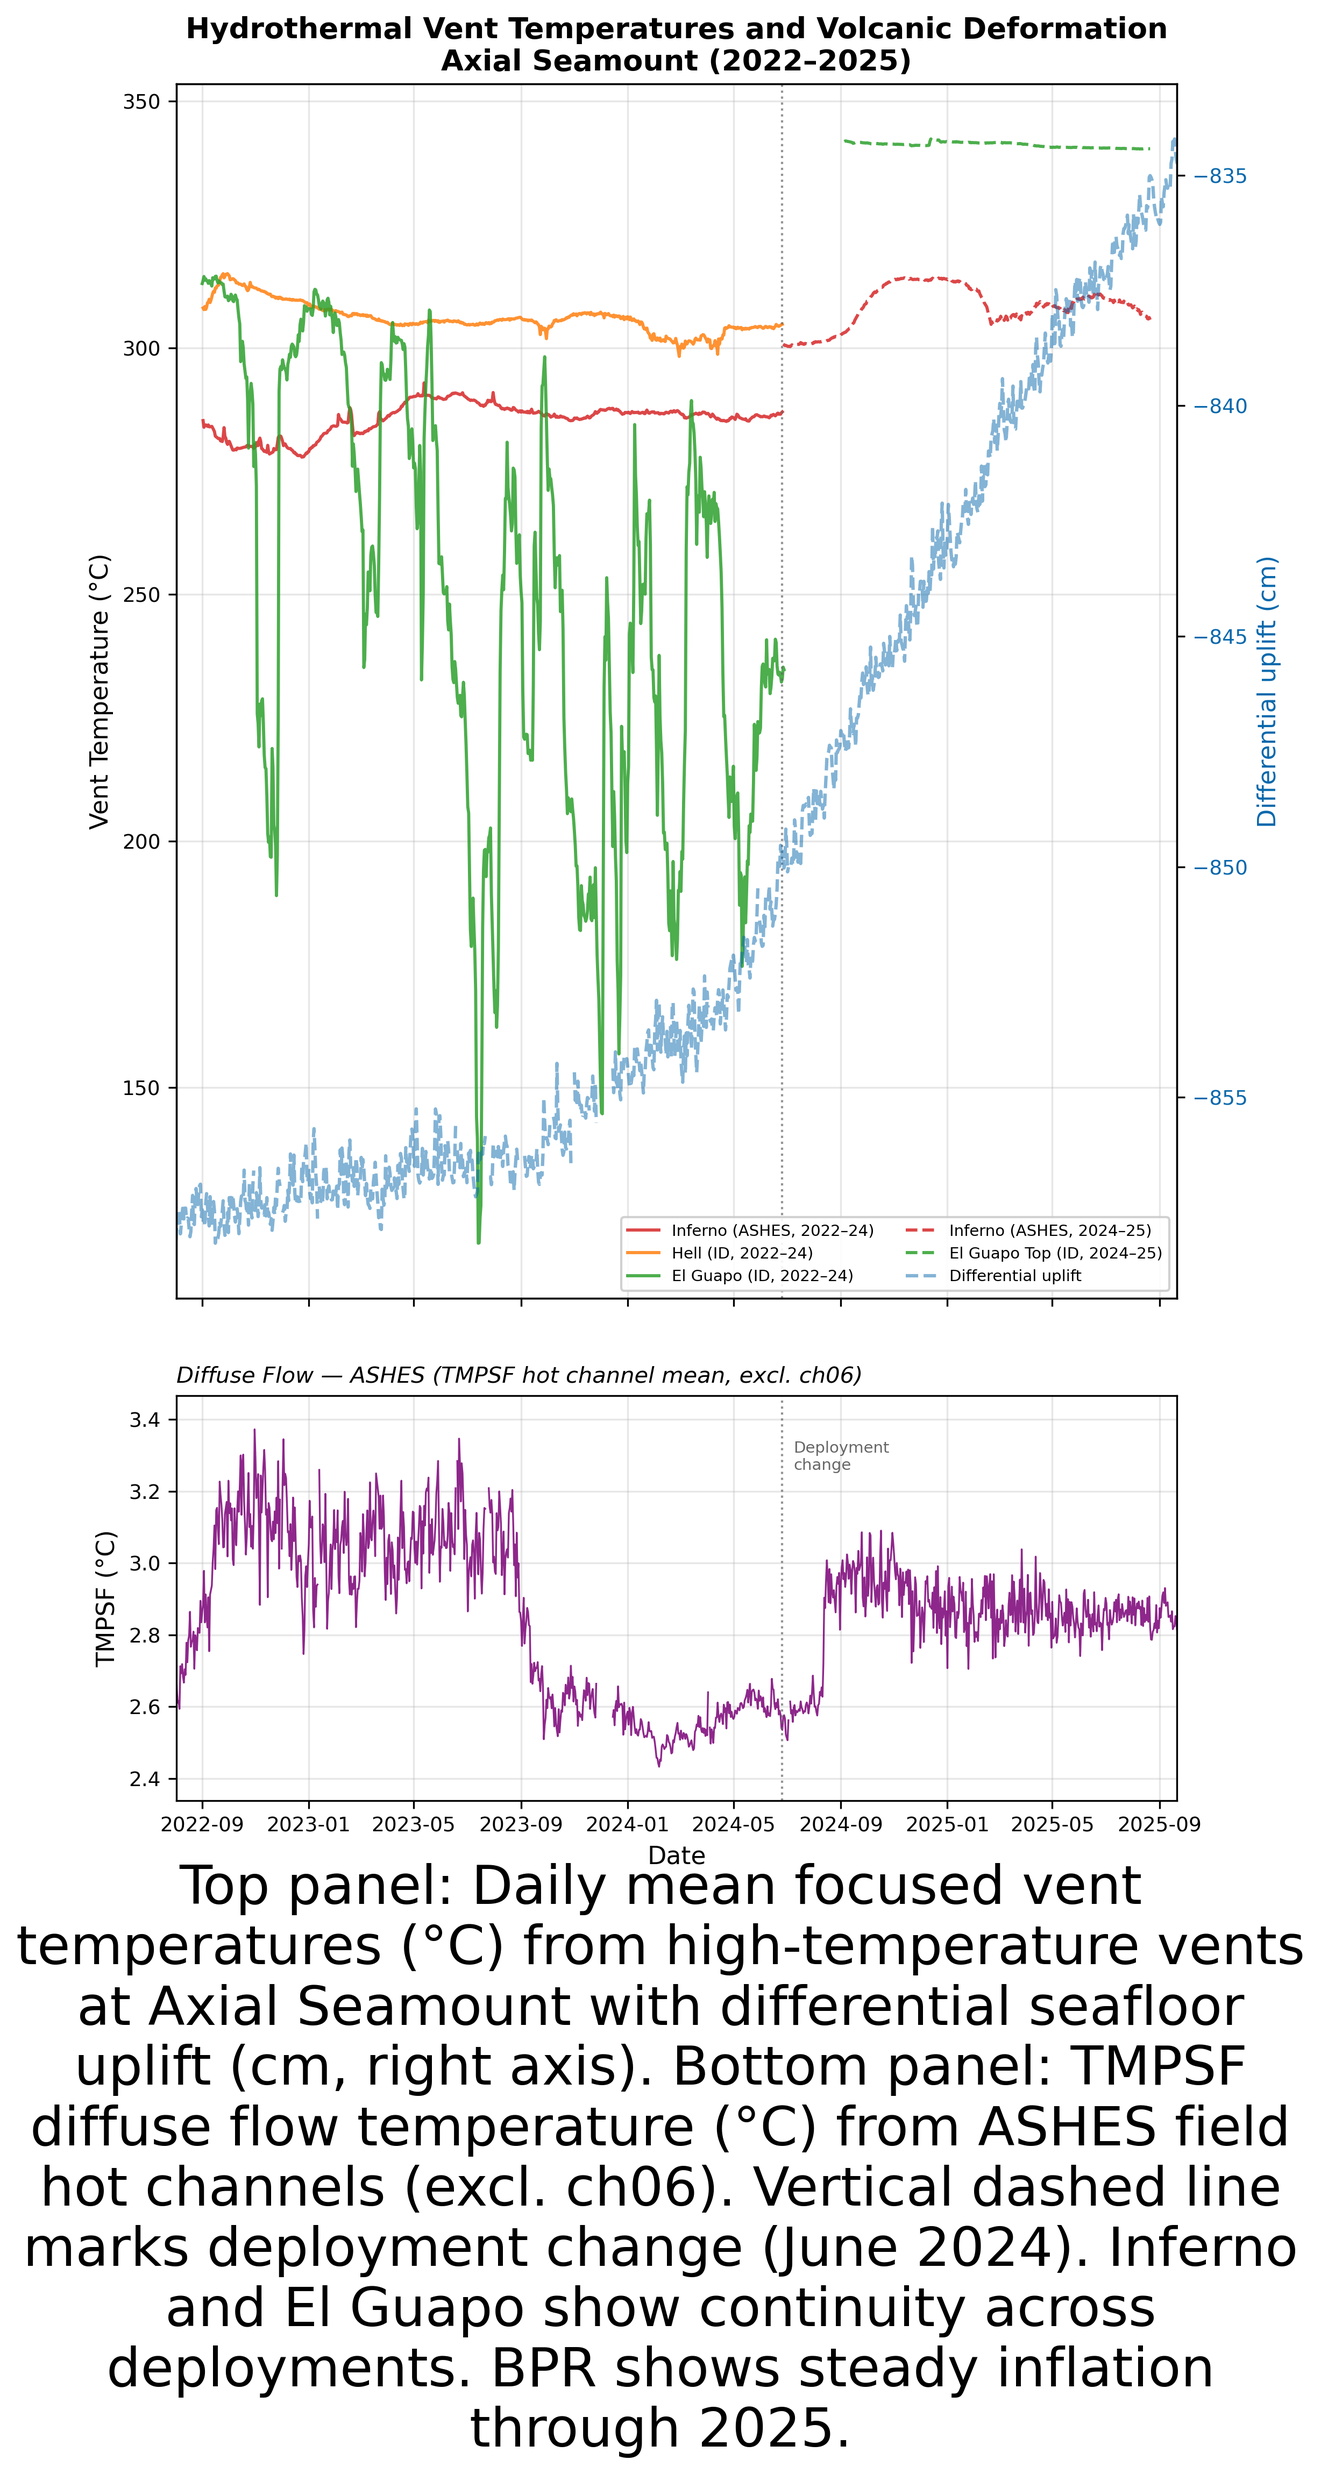
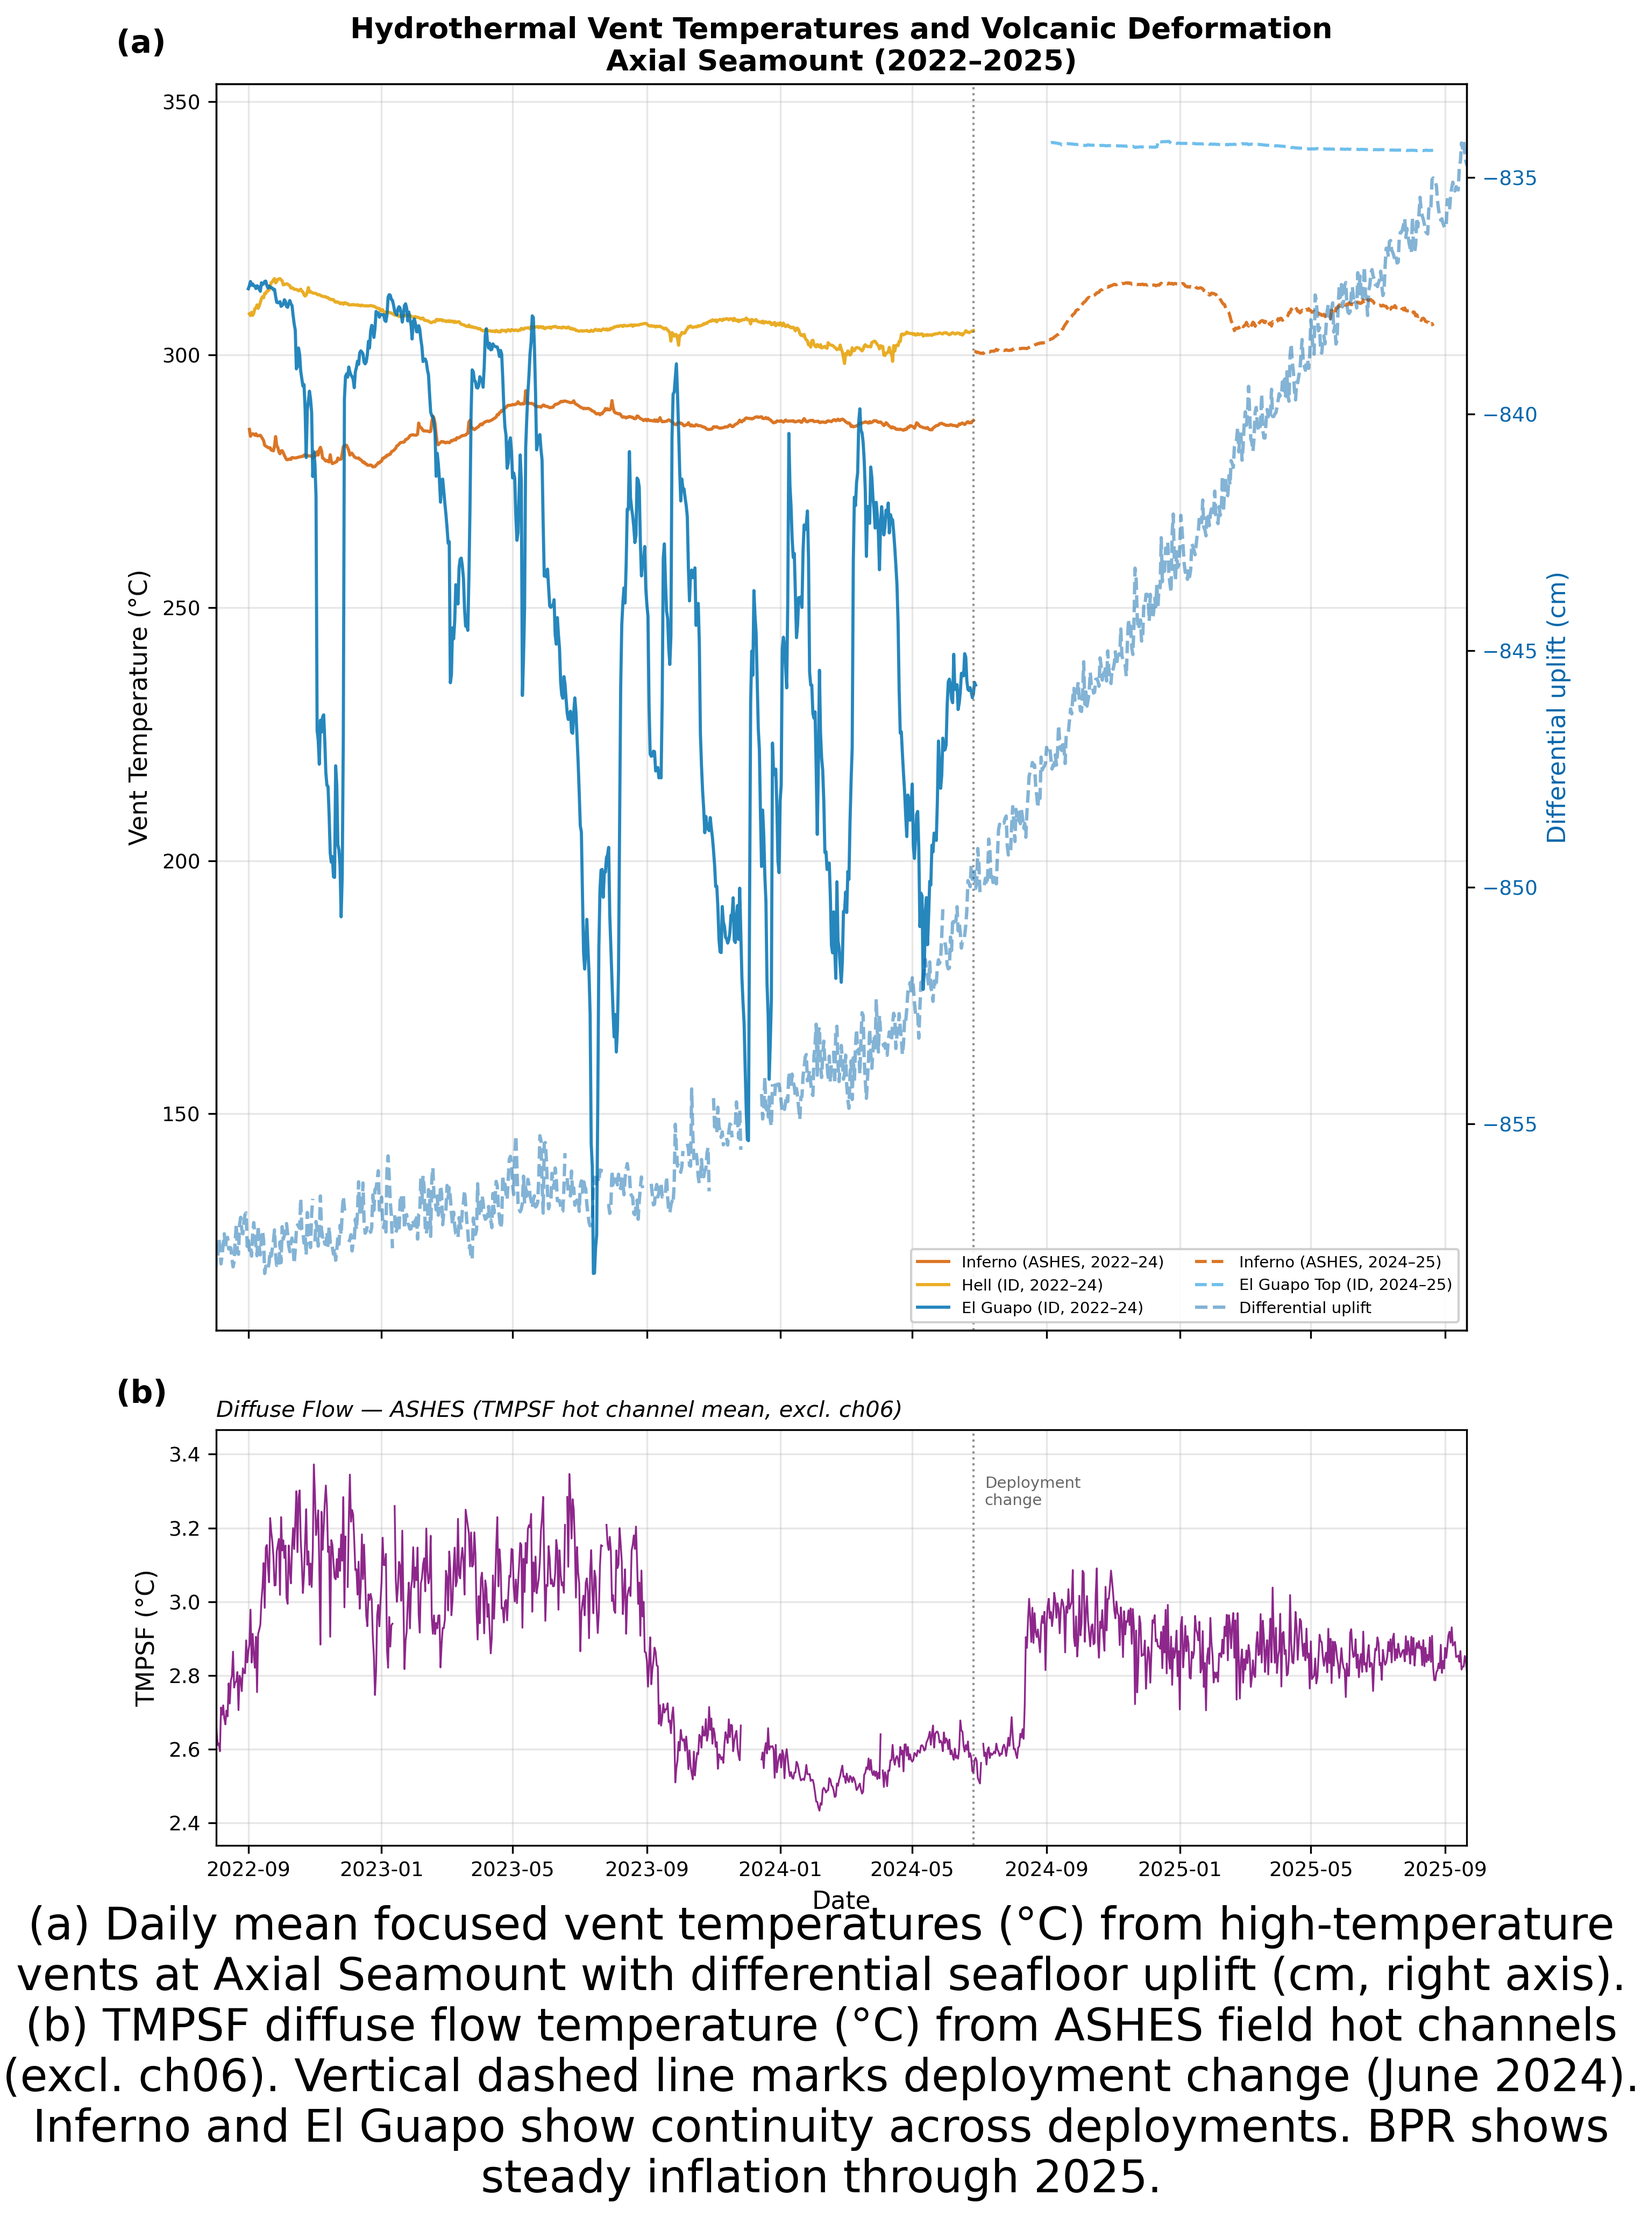
Medium priority fixes: shared x-axis, panel labels, colorblind palette
- Survey overview: shared x-axis aligns all panels temporally (2022-2025)
- Poster figure: add panel labels (a), (b); increase width to 10"
- All figures: switch to colorblind-safe Okabe-Ito palette
- Reduce caption font size to 20pt across all figures

diff --git a/survey.py b/survey.py
@@ -131,16 +131,17 @@ INSTRUMENTS = [
 ]
 
 # --- Colors: one per vent label (consistent across deployments) ---
+# Colorblind-safe palette (Okabe-Ito)
 VENT_COLORS = {
-    "Inferno": "#D62728",
-    "Hell": "#FF7F0E",
-    "El Guapo": "#2CA02C",
-    "El Guapo (Top)": "#1F77B4",
-    "Virgin": "#9467BD",
-    "Trevi / Mkr156": "#8C564B",
-    "Vixen / Mkr218": "#E377C2",
-    "Casper": "#17BECF",
-    "Diva": "#BCBD22",
+    "Inferno": "#D55E00",      # Vermillion
+    "Hell": "#E69F00",         # Orange
+    "El Guapo": "#0072B2",     # Blue
+    "El Guapo (Top)": "#56B4E9",  # Sky blue
+    "Virgin": "#CC79A7",       # Reddish purple
+    "Trevi / Mkr156": "#009E73",  # Bluish green
+    "Vixen / Mkr218": "#F0E442",  # Yellow
+    "Casper": "#0072B2",       # Blue
+    "Diva": "#D55E00",         # Vermillion
 }
 
 # --- Historical instruments (2010-2011 eruption period) ---
@@ -307,7 +308,7 @@ def load_historical_instrument(config):
     return out
 
 
-def add_figure_caption(fig, caption_text, fontsize=24):
+def add_figure_caption(fig, caption_text, fontsize=20):
     """Add a caption below the figure with proper spacing."""
     # Create a separate axes for the caption at the bottom
     caption_ax = fig.add_axes([0.05, 0.02, 0.9, 0.18])  # [left, bottom, width, height]
@@ -355,7 +356,7 @@ def fig_historical_eruption(records, fig_path, eruption_date=None):
         "post-eruption with partial recovery; Casper remained stable. Drops to ~150°C at end = "
         "instrument recovery."
     )
-    add_figure_caption(fig, caption, fontsize=24)
+    add_figure_caption(fig, caption, fontsize=20)
 
     fig.savefig(fig_path, dpi=300, bbox_inches="tight")
     plt.close(fig)
@@ -432,9 +433,20 @@ def fig_survey_overview(records, fig_path):
     """Figure 1: All instruments as subplots (skip records with no deployed data)."""
     plotable = [r for r in records if r[r["deployed"]].shape[0] > 0]
     n = len(plotable)
-    fig, axes = plt.subplots(n, 1, figsize=(8, 8 * (2.2 * n) / 14), dpi=300, sharex=False)
+    fig, axes = plt.subplots(n, 1, figsize=(10, 2 * n), dpi=300, sharex=True)
     if n == 1:
         axes = [axes]
+
+    # Find global date range for shared x-axis
+    all_starts = []
+    all_ends = []
+    for rec in plotable:
+        deployed = rec[rec["deployed"]]
+        if len(deployed) > 0:
+            all_starts.append(deployed.index.min())
+            all_ends.append(deployed.index.max())
+    xmin = min(all_starts) - pd.Timedelta(days=14)
+    xmax = max(all_ends) + pd.Timedelta(days=14)
 
     for ax, rec in zip(axes, plotable):
         deployed = rec[rec["deployed"]]
@@ -449,17 +461,14 @@ def fig_survey_overview(records, fig_path):
         ax.set_title(label, fontsize=10, fontweight="bold", loc="left")
         ax.grid(True, alpha=0.3)
         ax.tick_params(labelsize=8)
+        ax.set_xlim(xmin, xmax)
 
     axes[-1].set_xlabel("Date")
 
     # Deployment change annotation on all panels
     deploy_change = pd.Timestamp("2024-06-26")
     for ax in axes:
-        xlim = ax.get_xlim()
-        xmin_ax = pd.Timestamp.fromordinal(int(xlim[0]))
-        xmax_ax = pd.Timestamp.fromordinal(int(xlim[1]))
-        if xmin_ax <= deploy_change <= xmax_ax:
-            ax.axvline(deploy_change, color="#666666", linestyle=":", linewidth=0.8, alpha=0.7)
+        ax.axvline(deploy_change, color="#666666", linestyle=":", linewidth=0.8, alpha=0.7)
 
     fig.suptitle("MISO Temperature Survey — All Recent Instruments (2022–2025)",
                  fontsize=13, fontweight="bold", y=1.01)
@@ -508,7 +517,7 @@ def fig_hightemp_comparison(records, summary, fig_path):
         "exhibiting dramatic swings (100–315°C). El Guapo Top is the hottest and most stable (~341°C). "
         "Vertical dashed line marks deployment change (June 2024)."
     )
-    add_figure_caption(fig, caption, fontsize=24)
+    add_figure_caption(fig, caption, fontsize=20)
 
     fig.savefig(fig_path, dpi=300, bbox_inches="tight")
     plt.close(fig)
@@ -522,22 +531,23 @@ def fig_poster_bpr(records, summary, bpr, fig_path, tmpsf=None):
 
     # Poster-specific styling: group by vent identity across deployments
     # Same base color for same vent, solid=2022-2024, dashed=2024-2025
+    # Uses colorblind-safe Okabe-Ito palette
     POSTER_STYLE = {
-        ("Inferno", "2022-2024"):      {"color": "#D62728", "ls": "-",  "lw": 1.4, "label": "Inferno (ASHES, 2022–24)"},
-        ("Inferno", "2024-2025"):      {"color": "#D62728", "ls": "--", "lw": 1.4, "label": "Inferno (ASHES, 2024–25)"},
-        ("Hell", "2022-2024"):         {"color": "#FF7F0E", "ls": "-",  "lw": 1.4, "label": "Hell (ID, 2022–24)"},
-        ("El Guapo", "2022-2024"):     {"color": "#2CA02C", "ls": "-",  "lw": 1.4, "label": "El Guapo (ID, 2022–24)"},
-        ("El Guapo (Top)", "2024-2025"): {"color": "#2CA02C", "ls": "--", "lw": 1.4, "label": "El Guapo Top (ID, 2024–25)"},
+        ("Inferno", "2022-2024"):      {"color": "#D55E00", "ls": "-",  "lw": 1.4, "label": "Inferno (ASHES, 2022–24)"},
+        ("Inferno", "2024-2025"):      {"color": "#D55E00", "ls": "--", "lw": 1.4, "label": "Inferno (ASHES, 2024–25)"},
+        ("Hell", "2022-2024"):         {"color": "#E69F00", "ls": "-",  "lw": 1.4, "label": "Hell (ID, 2022–24)"},
+        ("El Guapo", "2022-2024"):     {"color": "#0072B2", "ls": "-",  "lw": 1.4, "label": "El Guapo (ID, 2022–24)"},
+        ("El Guapo (Top)", "2024-2025"): {"color": "#56B4E9", "ls": "--", "lw": 1.4, "label": "El Guapo Top (ID, 2024–25)"},
     }
 
     # Two panels if TMPSF available, otherwise single (with space for caption)
     if tmpsf is not None:
-        fig, (ax1, ax3) = plt.subplots(2, 1, figsize=(8, 14), dpi=300,
+        fig, (ax1, ax3) = plt.subplots(2, 1, figsize=(10, 14), dpi=300,
                                         height_ratios=[3, 1], sharex=True)
-        fig.subplots_adjust(bottom=0.18, top=0.94, hspace=0.12)
+        fig.subplots_adjust(bottom=0.16, top=0.94, hspace=0.12)
     else:
-        fig, ax1 = plt.subplots(figsize=(8, 10), dpi=300)
-        fig.subplots_adjust(bottom=0.28)
+        fig, ax1 = plt.subplots(figsize=(10, 10), dpi=300)
+        fig.subplots_adjust(bottom=0.25)
 
     for rec in high_recs:
         deployed = rec[rec["deployed"]]
@@ -635,17 +645,22 @@ def fig_poster_bpr(records, summary, bpr, fig_path, tmpsf=None):
                   fontsize=13, fontweight="bold")
     ax1.grid(True, alpha=0.3)
 
+    # Panel labels (a), (b) for reference in text
+    ax1.text(-0.08, 1.02, "(a)", transform=ax1.transAxes, fontsize=14, fontweight="bold", va="bottom")
+    if tmpsf is not None:
+        ax3.text(-0.08, 1.05, "(b)", transform=ax3.transAxes, fontsize=14, fontweight="bold", va="bottom")
+
     # Figure caption (24pt font for poster) - use dedicated axes to avoid overlap
     caption = (
-        "Top panel: Daily mean focused vent temperatures (°C) from high-temperature vents at "
-        "Axial Seamount with differential seafloor uplift (cm, right axis). Bottom panel: "
-        "TMPSF diffuse flow temperature (°C) from ASHES field hot channels (excl. ch06). "
+        "(a) Daily mean focused vent temperatures (°C) from high-temperature vents at "
+        "Axial Seamount with differential seafloor uplift (cm, right axis). "
+        "(b) TMPSF diffuse flow temperature (°C) from ASHES field hot channels (excl. ch06). "
         "Vertical dashed line marks deployment change (June 2024). Inferno and El Guapo "
         "show continuity across deployments. BPR shows steady inflation through 2025."
     )
-    caption_ax = fig.add_axes([0.05, 0.01, 0.9, 0.15])
+    caption_ax = fig.add_axes([0.05, 0.01, 0.9, 0.13])
     caption_ax.axis("off")
-    caption_ax.text(0.5, 0.95, caption, ha="center", va="top", fontsize=24,
+    caption_ax.text(0.5, 0.95, caption, ha="center", va="top", fontsize=20,
                     wrap=True, transform=caption_ax.transAxes, multialignment="center")
 
     fig.savefig(fig_path, dpi=300, bbox_inches="tight")
